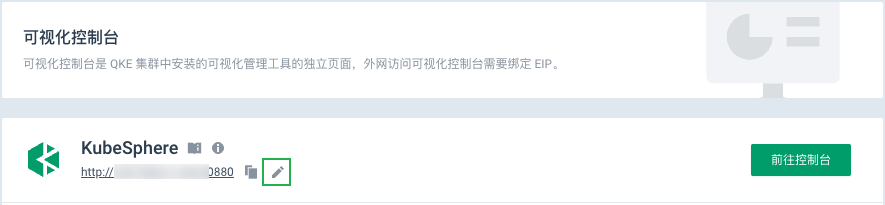
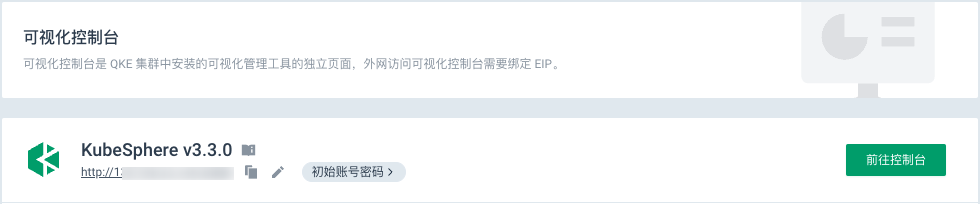
qke:* update to v2.2.1  (#1054)

diff --git a/content/container/qke_plus/manual/mounting_resource/resource_des.md b/content/container/qke_plus/manual/mounting_resource/resource_des.md
@@ -8,7 +8,7 @@ keyword: QKE, 挂载资源
 
 挂载资源包括集群运行、内置插件及功能运行所需的网络、存储等资源。
 
-## 资源使用说明
+## 挂载资源
 
 > **说明**
 >
@@ -16,38 +16,39 @@ keyword: QKE, 挂载资源
 
 | 资源类型   | 资源使用说明                                                 |
 | ---------- | ------------------------------------------------------------ |
-| 云硬盘     | 安装集群可视化管理工具及其内置组件，将会自动创建并挂载一定数量的云硬盘。具体 PVC 使用量请参考 [PVC 使用量说明](#pvc-使用量)。<br/>用户也可通过 KubeSphere 创建并挂载云硬盘到集群。 |
+| 云硬盘     | 安装集群可视化管理工具及其内置组件，将会自动创建并挂载一定数量的云硬盘。具体 PVC 使用量请参考 [PVC 使用量说明](#kubesphere-pvc-使用量)。<br/>用户也可通过 KubeSphere 创建并挂载云硬盘到集群。 |
 | 负载均衡器 | 创建集群将自动创建一个负载均衡器。<br/>若为可视化控制台绑定了 EIP（公网 IP），会自动创建一个负载均衡器。 |
-| 安全组     | 创建集群将自动创建一个安全组。<br/>若为可视化控制台绑定了 EIP（公网 IP），会自动创建一个安全组。<br/>用户也可以为集群绑定其他安全组。 |
+| 安全组     | 创建集群将自动创建一个安全组。<br/>若为可视化控制台绑定了 EIP（公网 IP），会自动创建一个安全组。 |
 
-### PVC 使用量
+## KubeSphere PVC 使用量
 
-<!--- **1 个 Master 节点集群最多使用 8 个 PVC**
+**单个 Master 节点的自管版集群 PVC 使用量说明如下表**：
 
-  | 组件                       | namespace                    | PVC名称                                                      | <span style="display:inline-block;width:70px">PVC 个数</span> |
-  | -------------------------- | ---------------------------- | ------------------------------------------------------------ | ------------------------------------------------------------ |
-  | MetricServer<br>(默认安装) | kubesphere-monitoring-system | <ul><li>prometheus-k8s-db-prometheus-k8s-0</li><li>prometheus-k8s-db-prometheus-k8s-1</li></ul> | 2                                                            |
-  | 审计/事件/日志             | kubesphere-logging-system    | <ul><li>data-elasticsearch-logging-data-0</li><li>data-elasticsearch-logging-data-1</li><li>data-elasticsearch-logging-discovery-0</li></ul><div style="background-color: #D8ECDE; padding: 10px 24px; margin: 10px 0; border-left: 3px solid #00a971;"><b>说明</b>：日志、审计、事件组件都依赖 elasticsearch。elasticsearch 需要创建 3个 PVC。</div> | 3                                                            |
-  | OpenPitrix 应用商店        | kubesphere-system            | minio                                                        | 1                                                            |
-  | DevOps                     | kubesphere-devops-system     | ks-jenkins                                                   | 1                                                            |
-  | DevOps                     | kubesphere-system            | openldap-pvc-openldap-0                                      | 1                                                            |
-  | 网络策略                   | /                            | /                                                            | 0                                                            |
-  | 告警                       | /                            | /                                                            | 0                                                            |
-  | 服务治理                   | /                            | /                                                            | 0                                                            |
+| 组件                       | namespace                    | PVC名称                                                      | <span style="display:inline-block;width:70px">PVC 个数</span> |
+| -------------------------- | ---------------------------- | ------------------------------------------------------------ | ------------------------------------------------------------ |
+| MetricServer<br>(默认安装) | kubesphere-monitoring-system | <ul><li>prometheus-k8s-db-prometheus-k8s-0</li><li>prometheus-k8s-db-prometheus-k8s-1</li></ul> | 2                                                            |
+| 审计/事件/日志             | kubesphere-logging-system    | 集群节点数大于 1 小于等于 5 时，3 个 PVC：<ul><li>data-elasticsearch-logging-data-0</li><li>data-elasticsearch-logging-data-1</li><li>data-elasticsearch-logging-discovery-0</li></ul>集群节点数大于 5 时，6 个 PVC，除以上3个，增加如下 3 个：<br/><ul><li>data-elasticsearch-logging-data-2</li><li>data-elasticsearch-logging-discovery-1</li><li>data-elasticsearch-logging-discovery-2</li></ul><div style="background-color: #D8ECDE; padding: 10px 24px; margin: 10px 0; border-left: 3px solid #00a971;"><b>说明</b><br/>日志、审计、事件组件都依赖 elasticsearch。elasticsearch 需要创建 3个 或 6个 PVC。如果使用外置 ELK，则不需要。</div> | 3 或 6                                                       |
+| OpenPitrix 应用商店        | kubesphere-system            | minio                                                        | 1                                                            |
+| DevOps                     | kubesphere-devops-system     | ks-jenkins                                                   | 1                                                            |
+| DevOps                     | kubesphere-system            | openldap-pvc-openldap-0                                      | 1                                                            |
+| DevOps                     | kubesphere-system            | minio                                                        | 1                                                            |
+| 网络策略                   | /                            | /                                                            | 0                                                            |
+| 告警                       | /                            | /                                                            | 0                                                            |
+| 服务治理                   | /                            | /                                                            | 0                                                            |
 
 
--->
-**托管版集群 PVC 使用量说明如下表：**
+**3 个 Master 节点的托管版/自管版集群 PVC 使用量说明如下表：**
 
-  | 组件                        | namespace                    | PVC 名称                                                     | <span style="display:inline-block;width:70px">PVC 个数</span> |
-  | --------------------------- | ---------------------------- | ------------------------------------------------------------ | ------------------------------------------------------------ |
-  | MetricServer<br/>(默认安装) | kubesphere-monitoring-system | <ul><li>prometheus-k8s-db-prometheus-k8s-0</li><li>prometheus-k8s-db-prometheus-k8s-1</li></ul> | 2                                                            |
-  | 默认                        | kubesphere-system            | <ul><li>data-redis-ha-server-0</li><li>data-redis-ha-server-1</li><li>data-redis-ha-server-2</li></ul> | 3                                                            |
-  | 审计/事件/日志              | kubesphere-logging-system    | <ul><li>data-elasticsearch-logging-data-0</li><li>data-elasticsearch-logging-data-1</li><li>data-elasticsearch-logging-data-2</li><li>data-elasticsearch-logging-discovery-0</li><li>data-elasticsearch-logging-discovery-1</li><li>data-elasticsearch-logging-discovery-2</li></ul><div style="background-color: #D8ECDE; padding: 10px 24px; margin: 10px 0; border-left: 3px solid #00a971;"><b>说明</b>：日志、审计、事件组件都依赖 elasticsearch。elasticsearch 需要创建 6个 PVC。</div> | 6                                                            |
-  | DevOps                      | kubesphere-devops-system     | ks-jenkins                                                   | 1                                                            |
-  | DevOps                      | kubesphere-system            | <ul><li>openldap-pvc-openldap-0</li><li>openldap-pvc-openldap-1</li></ul> | 2                                                            |
-  | OpenPitrix 应用商店         | kubesphere-system            | minio                                                        | 1                                                            |
-  | 网络策略                    | /                            | /                                                            | 0                                                            |
-  | 告警                        | /                            | /                                                            | 0                                                            |
-  | 服务治理                    | /                            | /                                                            | 0                                                            |
+| 组件                        | namespace                    | PVC 名称                                                     | <span style="display:inline-block;width:70px">PVC 个数</span> |
+| --------------------------- | ---------------------------- | ------------------------------------------------------------ | ------------------------------------------------------------ |
+| MetricServer<br/>(默认安装) | kubesphere-monitoring-system | <ul><li>prometheus-k8s-db-prometheus-k8s-0</li><li>prometheus-k8s-db-prometheus-k8s-1</li></ul> | 2                                                            |
+| 默认                        | kubesphere-system            | KubeSphere 3.3.0 以下版本，3个PVC ：<ul><li>data-redis-ha-server-0</li><li>data-redis-ha-server-1</li><li>data-redis-ha-server-2</li></ul>KubeSphere 3.3.0 及以上版本，1个PVC：<br>redis-pvc | 3 或 1                                                       |
+| 审计/事件/日志              | kubesphere-logging-system    | 集群节点数大于 1 小于等于 5 时，3 个 PVC：<ul><li>data-elasticsearch-logging-data-0</li><li>data-elasticsearch-logging-data-1</li><li>data-elasticsearch-logging-discovery-0</li></ul>集群节点数大于 5 时，6 个 PVC，除以上3个，增加如下 3 个：<br/><ul><li>data-elasticsearch-logging-data-2</li><li>data-elasticsearch-logging-discovery-1</li><li>data-elasticsearch-logging-discovery-2</li></ul><div style="background-color: #D8ECDE; padding: 10px 24px; margin: 10px 0; border-left: 3px solid #00a971;"><b>说明</b><br/>日志、审计、事件组件都依赖 elasticsearch。elasticsearch 需要创建 3个 或 6个 PVC。如果使用外置 ELK，则不需要。</div> | 3 或 6                                                       |
+| DevOps                      | kubesphere-devops-system     | ks-jenkins                                                   | 1                                                            |
+| DevOps                      | kubesphere-system            | <ul><li>openldap-pvc-openldap-0</li><li>openldap-pvc-openldap-1</li></ul> | 2                                                            |
+| DevOps                      | kubesphere-system            | minio                                                        | 1                                                            |
+| OpenPitrix 应用商店         | kubesphere-system            | minio                                                        | 1                                                            |
+| 网络策略                    | /                            | /                                                            | 0                                                            |
+| 告警                        | /                            | /                                                            | 0                                                            |
+| 服务治理                    | /                            | /                                                            | 0                                                            |
 

diff --git a/content/container/qke_plus/manual/mounting_resource/view_resource.md b/content/container/qke_plus/manual/mounting_resource/view_resource.md
@@ -18,21 +18,33 @@ keyword: QKE, 挂载资源
 
 4. 在左侧导航栏，选择**资源管理** > **挂载资源**，进入**挂载资源**页面。
 
-   ![](/container/qke_plus/_images/mounting_resource_disk.png)
-
 5. 通过点击选项卡，分别查看已挂载到集群的云硬盘、负载均衡器及安全组资源。
 
-   **相关操作说明**：
+   - **云硬盘**
 
-   - 搜索资源：在资源列表右上方的搜索框中输入名称进行资源查找。
+     ![](/container/qke_plus/_images/mounting_resource_disk.png)
 
-   - 过滤查看：云硬盘及负载均衡器支持通过**状态**列进行过滤，查看对应状态的资源。
+     可查看集群挂载的云硬盘的名称、PVC 名称、状态、类型、容量等信息。点击资源 ID 号，将跳转到对应资源的详情页面。
 
-   - 资源详情：点击资源 ID 号，将跳转到对应资源的详情页面。
+     > **说明**
+     >
+     > - **名称**指云平台获取的硬盘信息。
+     >
+     > - **pvc 名称**指 K8s 获取的持久卷信息。
 
-   <!-- - 绑定安全组：在安全组列表上方点击**绑定安全组**，选择符合需求的安全组进行绑定。
-
-   - 解绑安全组：在安全组列表点击**操作**列的**删除**，可解绑安全组。-->
-
-     
+   - **负载均衡器**
+   
+     ![](/container/qke_plus/_images/mounting_resource_lb.png)
+   
+     可查看集群中使用到的负载均衡器的名称、状态、类型、IP 地址等信息。点击资源 ID 号，将跳转到对应资源的详情页面。
+   
+   - **安全组**
+   
+     ![](/container/qke_plus/_images/mounting_resource_sg.png)
+   
+     可查看集群所绑定的安全组的信息。点击资源 ID 号，将跳转到对应资源的详情页面。
+   
+   
+   
+   
 

diff --git a/content/container/qke_plus/news/prodoct_news.md b/content/container/qke_plus/news/prodoct_news.md
@@ -4,6 +4,15 @@ collapsible: false
 weight: 5
 
 product:
+
+    - time: 2022-08-11
+      title: QKE v2.2.1 发布，新增持久卷名称信息展示
+      content: QKE v2.2.1 上线。<br/>- 新增持久卷名称信息展示，便于掌握 Pod 挂载持久卷信息。<br/>- 优化可视化控制台信息展示，便于查看控制台版本及初始账号信息。<br/>- 修复若干已知问题，提升了集群可用性。
+      url: /container/qke_plus/manual/mounting_resource/view_resource/
+      tags:
+      - 新功能
+      zone: 北京3区，上海1区，广东2区
+
     - time: 2022-07-29
       title: QKE v2.2.0 发布，新增集群告警管理
       content: QKE v2.2.0 上线。<br/>- 新增集群告警管理，支持为集群节点绑定或解绑告警策略。<br/>- 优化集群参数修改功能，提升用户体验。<br/>- 修复了一些已知问题，提升集群响应速度等。

diff --git a/content/container/qke_plus/manual/console/access_ks.md b/content/container/qke_plus/manual/console/access_ks.md
@@ -40,7 +40,7 @@ keyword: 容器, QKE, KubeSphere
 
 4. 在左侧导航栏，点击**可视化控制台**，进入**可视化控制台**页面。
 
-   ![](../../../_images/access_ks.png)·	
+   ![](../../../_images/bind_eip_done.png)
 
 6. 可通过以几种下方式进入 KubeSphere 登录页面。
 
@@ -52,6 +52,10 @@ keyword: 容器, QKE, KubeSphere
 
 7. 输入用户及密码，点击**登录**。
 
+   在**可视化控制台**页面，点击**初始账号及密码**可查看及复制账号密码。
+   
+   	![](../../../_images/init_user_pass.png)·	
+   
    > **说明**
    >
    > 为保障系统安全，首次登录后，请立即修改密码。

diff --git a/content/container/qke_plus/best-practice/how_use_ks.md b/content/container/qke_plus/best-practice/how_use_ks.md
@@ -46,7 +46,7 @@ QKE 可以帮助您在创建 QKE 集群时，轻松快速的安装好 KubeSphere
 
 1. 在**可视化控制台**页面，点击 **KubeSphere** 字样下方的公网 IP 地址或点击**前往控制台**，进入到 KubeSphere 登录页面。
 
-   ![](../../_images/access_ks.png)·	
+   ![](/container/qke_plus/_images/bind_eip_done.png)
 
 2. 输入用户名及密码，点击**登录**。
 

diff --git a/content/container/qke_plus/manual/console/bind_eip.md b/content/container/qke_plus/manual/console/bind_eip.md
@@ -13,7 +13,7 @@ keyword: 容器, QKE, 控制台
 ## 前提条件
 
 - 已安装 KubeSphere 控制台。
-- 已创建或已有可用的公网 IP。公网 IP 须为`外部绑定`的公网 IP。
+- 已创建或已有可用的公网 IP。公网 IP 需为`外部绑定`的公网 IP。
 
 ## 操作步骤
 
